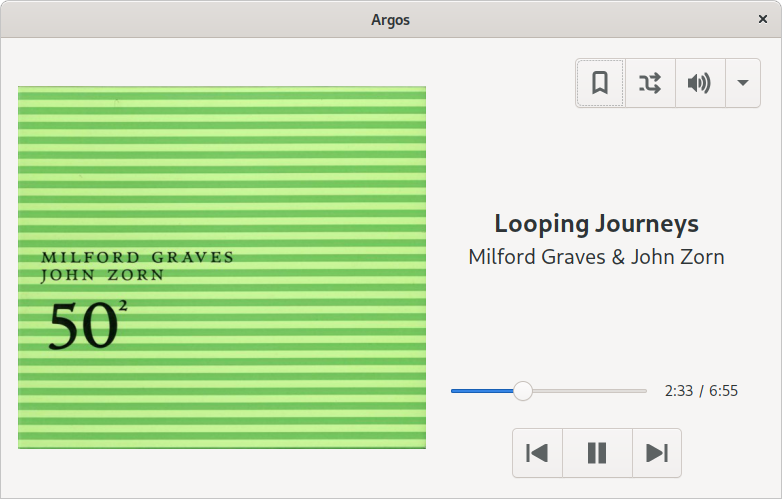
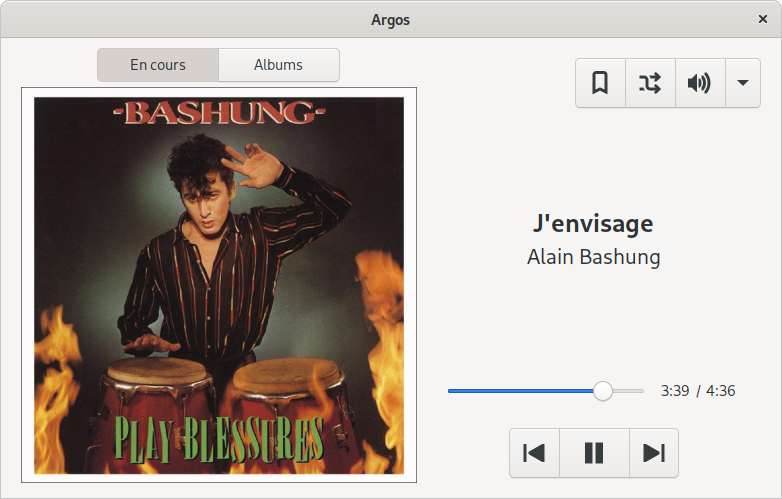
Implement albums view

diff --git a/argos/window.py b/argos/window.py
@@ -1,19 +1,29 @@
 import logging
 from pathlib import Path
-from typing import Optional
+from typing import Mapping, Optional
 
 from gi.repository import GdkPixbuf, GLib, Gtk
+from gi.repository.GdkPixbuf import Pixbuf
 
 from .message import MessageType
-from .model import PlaybackState
+from .model import Album, PlaybackState
 from .utils import compute_target_size, elide_maybe, ms_to_text
 
 LOGGER = logging.getLogger(__name__)
+
+ALBUM_STORE_TEXT_COLUMN = 0
+ALBUM_STORE_TOOLTIP_COLUMN = 1
+ALBUM_STORE_URI_COLUMN = 2
+ALBUM_STORE_PIXBUF_COLUMN = 3
+
+ALBUM_ICON_SIZE = 100
 
 
 @Gtk.Template(resource_path="/app/argos/Argos/ui/window.ui")
 class ArgosWindow(Gtk.ApplicationWindow):
     __gtype_name__ = "ArgosWindow"
+
+    albums_view = Gtk.Template.Child()
 
     playing_track_image = Gtk.Template.Child()
     play_image = Gtk.Template.Child()
@@ -55,8 +65,16 @@ class ArgosWindow(Gtk.ApplicationWindow):
             "value_changed", self.volume_button_value_changed_cb
         )
 
+        albums_store = Gtk.ListStore(str, str, str, Pixbuf)
+        self.albums_view.set_model(albums_store)
+        self.albums_view.set_text_column(ALBUM_STORE_TEXT_COLUMN)
+        self.albums_view.set_tooltip_column(ALBUM_STORE_TOOLTIP_COLUMN)
+        self.albums_view.set_pixbuf_column(ALBUM_STORE_PIXBUF_COLUMN)
+        self.albums_view.set_item_width(ALBUM_ICON_SIZE)
+
         if self._disable_tooltips:
             for widget in (
+                self.albums_view,
                 self.play_favorite_playlist_button,
                 self.play_random_album_button,
                 self.volume_button,
@@ -66,6 +84,31 @@ class ArgosWindow(Gtk.ApplicationWindow):
             ):
                 widget.props.has_tooltip = False
 
+    def update_albums_list(self, albums: Mapping[str, Album]) -> None:
+        store = self.albums_view.get_model()
+        store.clear()
+        for uri, album in albums.items():
+            scaled_pixbuf = None
+            if album.image_path is not None:
+                try:
+                    pixbuf = Pixbuf.new_from_file(str(album.image_path))
+                except GLib.Error as error:
+                    LOGGER.warning(
+                        f"Failed to read image at {str(album.image_path)!r}: {error}"
+                    )
+                else:
+                    width, height = compute_target_size(
+                        pixbuf.get_width(),
+                        pixbuf.get_height(),
+                        target_width=ALBUM_ICON_SIZE,
+                    )
+                    scaled_pixbuf = pixbuf.scale_simple(
+                        width, height, GdkPixbuf.InterpType.BILINEAR
+                    )
+            store.append(
+                [elide_maybe(album.name), album.name, album.uri, scaled_pixbuf]
+            )
+
     def update_playing_track_image(self, image_path: Optional[Path]) -> None:
         if not image_path:
             self.playing_track_image.set_from_resource(
@@ -73,7 +116,7 @@ class ArgosWindow(Gtk.ApplicationWindow):
             )
         else:
             try:
-                pixbuf = GdkPixbuf.Pixbuf.new_from_file(str(image_path))
+                pixbuf = Pixbuf.new_from_file(str(image_path))
             except GLib.Error as error:
                 LOGGER.warning(f"Failed to read image at {str(image_path)!r}: {error}")
                 self.playing_track_image.set_from_resource(
@@ -180,3 +223,12 @@ class ArgosWindow(Gtk.ApplicationWindow):
     ) -> None:
         time_position = round(value)
         self._app.send_message(MessageType.SEEK, {"time_position": time_position})
+
+    @Gtk.Template.Callback()
+    def albums_view_item_activated_cb(
+        self, icon_view: Gtk.IconView, path: Gtk.TreePath
+    ) -> None:
+        store = icon_view.get_model()
+        store_iter = store.get_iter(path)
+        uri = store.get_value(store_iter, ALBUM_STORE_URI_COLUMN)
+        self._app.send_message(MessageType.PLAY_ALBUM, {"uri": uri})

diff --git a/argos/app.py b/argos/app.py
@@ -370,6 +370,12 @@ class Application(Gtk.Application, WithModelAccessor):
                     )
                 )
 
+        if "albums" in changed:
+            if self.window:
+                GLib.idle_add(
+                    partial(self.window.update_albums_list, albums=self._model.albums)
+                )
+
     async def _reset_model(self) -> None:
         raw_state = await self._http.get_state()
         mute = await self._http.get_mute()
@@ -377,6 +383,17 @@ class Application(Gtk.Application, WithModelAccessor):
         tl_track = await self._http.get_current_tl_track()
         time_position = await self._http.get_time_position()
         self._time_position_tracker.time_position_synced()
+        albums = await self._http.browse_albums()
+        album_uris = [a["uri"] for a in albums]
+        images = await self._http.get_images(album_uris)
+        for a in albums:
+            album_uri = a.get("uri")
+            if album_uri is None:
+                continue
+
+            album_images = images[album_uri]
+            filepath = await self._download.fetch_first_image(images=album_images)
+            a["image_path"] = filepath
 
         async with self.model_accessor as model:
             model.update_from(
@@ -385,6 +402,7 @@ class Application(Gtk.Application, WithModelAccessor):
                 volume=volume,
                 time_position=time_position,
                 tl_track=tl_track,
+                albums=albums,
             )
 
     def send_message(

diff --git a/argos/accessor.py b/argos/accessor.py
@@ -1,10 +1,10 @@
 import asyncio
 import logging
 from pathlib import Path
-from typing import Any, Set
+from typing import Any, List, Set
 
 from .message import Message, MessageType
-from .model import Model, PlaybackState
+from .model import Album, Model, PlaybackState
 
 LOGGER = logging.getLogger(__name__)
 
@@ -56,6 +56,7 @@ class ModelAccessor:
         time_position: Any = None,
         tl_track: Any = None,
         image_path: Any = None,
+        albums: List[Any] = None,
     ) -> None:
         if network_available is not None:
             self._set_model_attr("network_available", network_available)
@@ -107,6 +108,21 @@ class ModelAccessor:
         if image_path is not None:
             path = Path(image_path)
             self._set_model_attr("image_path", path)
+
+        if albums is not None:
+            indexed_albums = {}
+            for album in albums:
+                uri = album.get("uri")
+                if uri:
+                    indexed_albums[uri] = Album(
+                        album["name"],
+                        album["uri"],
+                        None,
+                        album.get("image_path"),
+                        None,
+                        None,
+                    )
+            self._set_model_attr("albums", indexed_albums)
 
 
 class WithModelAccessor:

diff --git a/argos/model.py b/argos/model.py
@@ -1,13 +1,30 @@
 from dataclasses import dataclass, field
 from enum import Enum
 from pathlib import Path
-from typing import Optional
+from typing import Mapping, Optional
 
 
 class PlaybackState(Enum):
     PLAYING = "playing"
     PAUSED = "paused"
     STOPPED = "stopped"
+
+
+@dataclass
+class Artist:
+    name: str
+    uri: str
+    image_path: Optional[Path]
+
+
+@dataclass
+class Album:
+    name: str
+    uri: str
+    artist: Optional[Artist]
+    image_path: Optional[Path]
+    length: Optional[int]
+    track_count: Optional[int]
 
 
 @dataclass
@@ -30,3 +47,5 @@ class Model:
     artist_name: Optional[str] = None
 
     image_path: Optional[Path] = field(default=None, compare=False)
+
+    albums: Mapping[str, Album] = field(default_factory=dict, repr=False, compare=False)

diff --git a/README.rst b/README.rst
@@ -11,15 +11,23 @@ Argos
 Mopidy front-end for small devices.
 
 .. figure:: screenshot.png
-   :alt: Screenshot
+   :alt: Application window screenshot
    :align: center
    :width: 407
    :height: 249
 
    Application window
 
+.. figure:: screenshot-albums-view.png
+   :alt: Albums view screenshot
+   :align: center
+   :width: 407
+   :height: 249
+
+   Albums view
+
 .. figure:: screenshot-preferences.png
-   :alt: Screenshot
+   :alt: Preferences window screenshot
    :align: center
    :width: 152
    :height: 96
@@ -32,6 +40,8 @@ Features 🥳
 * Play random album from Mopidy-Local
 
 * Configure and play favorite playlist
+
+* Albums view
 
 * Display album cover from Mopidy-Local HTTP API
 
